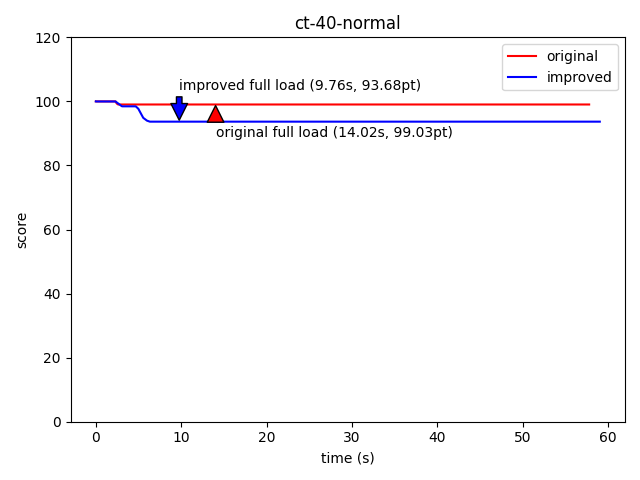
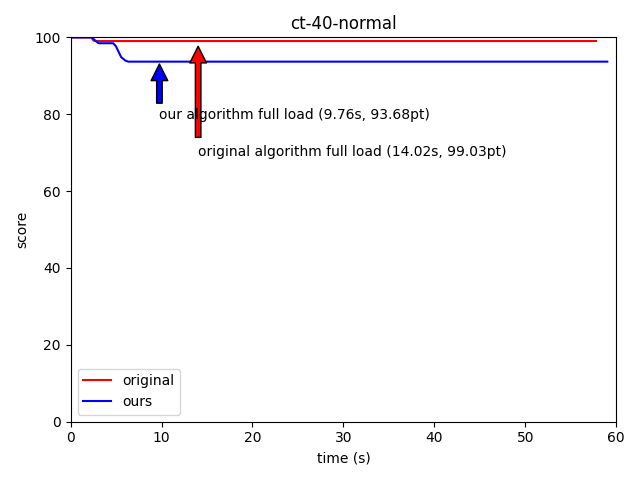
:seedling: Feedback 1, 2

diff --git a/analyzer/analyzer.py b/analyzer/analyzer.py
@@ -110,32 +110,33 @@ def main(datadir, compare_score=False):
             # improved_df.plot(ax=ax, x="elapsedTime", y="cumint", label="improved", color="blue")
             fig = plt.figure()
             plot1, = plt.plot(orignal_df["elapsedTime"], orignal_df["cumint"], label="original", color="red")
-            plot2, = plt.plot(improved_df["elapsedTime"], improved_df["cumint"], label="improved", color="blue")
+            plot2, = plt.plot(improved_df["elapsedTime"], improved_df["cumint"], label="our", color="blue")
             plt.ylim(0, 100)
-            plt.legend([plot1, plot2], ["original", "improved"])
+            plt.xlim(0, durations[condition[2]]) # situation
+            plt.legend([plot1, plot2], ["original", "ours"])
             plt.title("{}-{}-{}".format(condition[0], condition[1], condition[2]))
             original_full_load_time = bench_result["original"].full_load_time
             improved_full_load_time = bench_result["improved"].full_load_time
             original_final_score = bench_result["original"].cum_scores.iloc[-1][1]
             improved_final_score = bench_result["improved"].cum_scores.iloc[-1][1]
 
-            original_indicator = f'original full load ({original_full_load_time:.2f}s, {original_final_score:.2f}pt)'
-            improved_indicator = f'improved full load ({improved_full_load_time:.2f}s, {improved_final_score:.2f}pt)'
+            original_indicator = f'original algorithm full load ({original_full_load_time:.2f}s, {original_final_score:.2f}pt)'
+            improved_indicator = f'our algorithm full load ({improved_full_load_time:.2f}s, {improved_final_score:.2f}pt)'
             print(original_indicator, improved_indicator)
             plt.annotate(original_indicator,
                          xy=(original_full_load_time, original_final_score),
-                         xytext=(original_full_load_time, original_final_score - 10),
+                         xytext=(original_full_load_time, original_final_score - 30),
                          arrowprops=dict(facecolor='red', shrink=0.05))
             plt.annotate(improved_indicator,
                          xy=(improved_full_load_time, improved_final_score),
-                         xytext=(improved_full_load_time, improved_final_score + 10),
+                         xytext=(improved_full_load_time, improved_final_score -15),
                          arrowprops=dict(facecolor='blue', shrink=0.05))
             plt.xlabel("time (s)")
             plt.ylabel("score")
             plt.tight_layout()
             # plt.show()
             plt.savefig(f"../result-figs/{condition[0]}-{condition[1]}-{condition[2]}.png")
-            fig.close()
+            # fig.close()
 
     network_speeds = {}
     for condition, bench_result in bench_results.items():
@@ -194,4 +195,4 @@ def main(datadir, compare_score=False):
 
 
 if __name__ == "__main__":
-    main("../csvs/")
+    main("../csvs/", compare_score=True)
